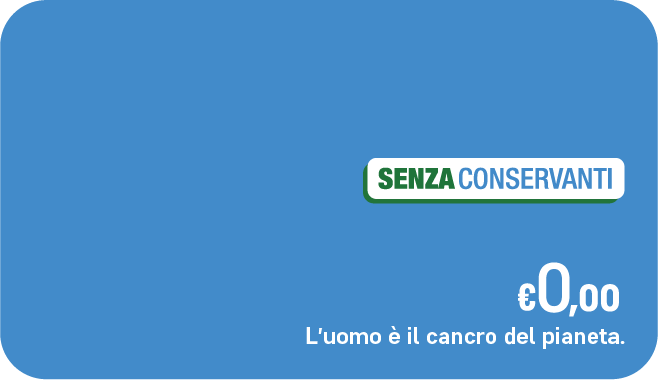
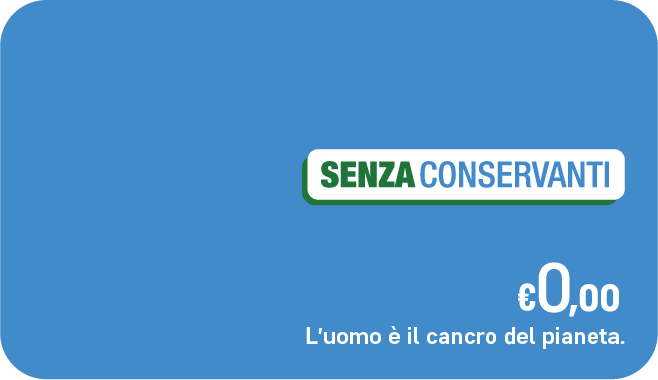
scritte prodotti

Changed region(s): [[0.4559, 0.3763, 0.9726, 0.55]]

diff --git a/paginaprodottistyle.css b/paginaprodottistyle.css
@@ -117,7 +117,7 @@
 .vaschettaGrande {
   position: absolute;
   top: 40%; left: 40%;
-  height: 95%; width: 100%;
+  height: 85%; width: 95%;
   transform-origin: center center;
   transform: translate(-50%, -50%);
   pointer-events: all;
@@ -139,7 +139,7 @@
 .vaschettaGrande:hover {
   position: absolute;
   top: 40%; left: 40%;
-  height: 103%; width: 108%;
+  height: 95%; width: 100%;
   transform-origin: center center;
   transform: translate(-50%, -50%);
   pointer-events: all;

diff --git a/mobile/prodotti.mobile.html b/mobile/prodotti.mobile.html
@@ -104,7 +104,7 @@
 
   <div id="linee">
   </div>
-  <div id="titolo" class="testo"> PRODOTTIciccino </div>
+  <div id="titolo" class="testo"> PRODOTTI </div>
   <div id="menu">
       <a id="m1" class="menutesto" href="prodotti.mobile.html">Prodotti</a>
       <a id="m2" class="menutesto" href="negozi.mobile.html">Negozi</a>
